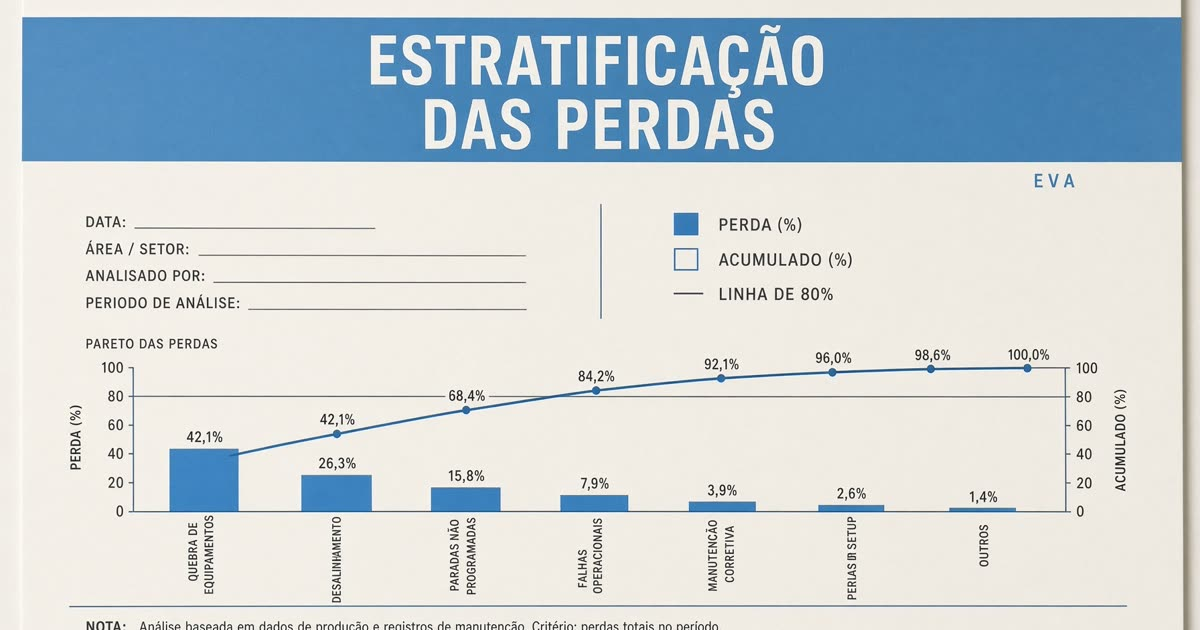
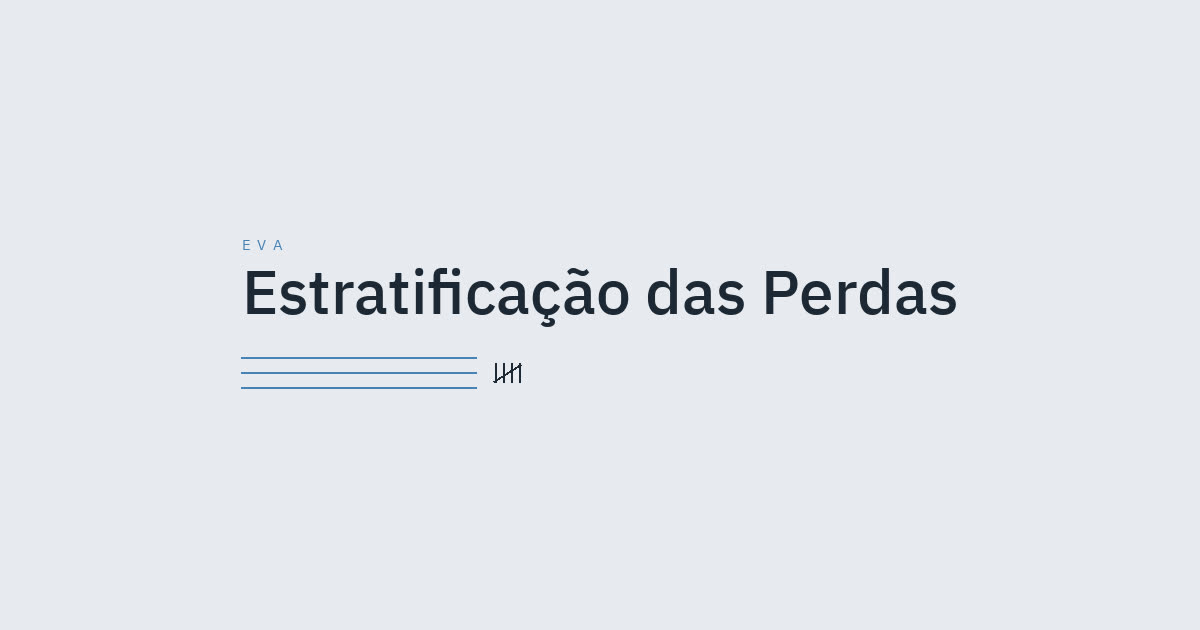
Mostra as perdas por lado, em pares, com o nome inteiro.

diff --git a/src/components/estratificacao.tsx b/src/components/estratificacao.tsx
@@ -8,7 +8,6 @@ import {
   Eye,
   EyeOff,
   ImageDown,
-  Maximize2,
   Minus,
   Plus,
   X,
@@ -24,7 +23,6 @@ import {
   describeMatrix,
   emptyConfig,
   fichaLines,
-  fichaTotal,
   formatDateBR,
   GRID_MACHINES,
   gridTargets,
@@ -1803,9 +1801,7 @@ function FichaSheet({
   onDelete?: (entries: Entry[]) => void;
 }) {
   const lines = fichaLines(state, machine);
-  const total = fichaTotal(lines);
   const filled = machineHasFicha(state, machine);
-  const [wide, setWide] = useState(false);
   const [open, setOpen] = useState(force);
   const [askDelete, setAskDelete] = useState(false);
   const mine = shiftEntries(state, machine);
@@ -1832,7 +1828,6 @@ function FichaSheet({
         <div className="flex items-end justify-between gap-3">
           <h2 className="font-display text-4xl leading-none">Máquina {machine}</h2>
           <span className="flex items-center gap-2">
-            <span className="font-display text-3xl leading-none tabular-nums">{total}</span>
             <ChevronDown className={cx("size-6 transition-transform", open && "rotate-180")} />
           </span>
         </div>
@@ -1845,14 +1840,6 @@ function FichaSheet({
       {open ? (
         <>
           <div className="grid gap-2 px-3 pt-3">
-            <button
-              type="button"
-              onClick={() => void openLandscape(setWide)}
-              className="flex min-h-11 w-full items-center justify-center gap-2 rounded-tile bg-accent-soft font-semibold text-accent"
-            >
-              <Maximize2 className="size-5" />
-              Ver em paisagem
-            </button>
             {onDelete && mine.length > 0 ? (
               askDelete ? (
                 <div className="flex items-center gap-2 rounded-tile bg-surface-2 px-3 py-2">
@@ -1888,26 +1875,17 @@ function FichaSheet({
               )
             ) : null}
           </div>
-          <p className="px-3 py-2 text-sm text-muted">
-            Desça a tabela: os problemas ficam fixos. Para o lado, o restante das colunas.
-          </p>
-          <div className="max-h-[65dvh] overflow-auto">
-            <FichaTable lines={lines} />
-          </div>
+          <p className="px-3 pt-3 text-sm text-muted">Uma sola no lado fecha 1 par. Esquerda e direita não se somam.</p>
+          <ApontamentosLista lines={lines} />
         </>
-      ) : null}
-      {wide ? (
-        <LandscapeSheet
-          machine={machine}
-          date={formatDateBR(state.date)}
-          turno={TURNO_LABEL[state.turno]}
-          total={total}
-          lines={lines}
-          onClose={() => setWide(false)}
-        />
       ) : null}
     </section>
   );
+}
+
+function pares(solas: number): number {
+  if (solas <= 0) return 0;
+  return Math.ceil(solas / 2);
 }
 
 function TopProblems({ lines }: { lines: FichaLine[] }) {
@@ -1916,24 +1894,90 @@ function TopProblems({ lines }: { lines: FichaLine[] }) {
   return (
     <ol className="mt-3 space-y-1">
       {leaders.map((item, index) => (
-        <li key={item.name} className="flex items-center gap-2 rounded-lg bg-white/15 px-2 py-1">
+        <li key={item.name} className="flex items-start gap-2 rounded-lg bg-white/15 px-2 py-1.5">
           <span className="w-5 shrink-0 font-display text-xl leading-none">{index + 1}</span>
-          <span className="min-w-0 flex-1 truncate text-sm font-semibold">{item.name}</span>
-          <span className="shrink-0 font-display text-2xl leading-none tabular-nums">{item.count}</span>
+          <span className="min-w-0 flex-1 text-sm font-semibold leading-snug">{item.name}</span>
+          <span className="shrink-0 text-right text-xs font-semibold leading-snug">
+            {item.solas} {item.solas === 1 ? "sola" : "solas"}
+          </span>
         </li>
       ))}
     </ol>
   );
 }
 
-function topProblems(lines: FichaLine[]): { name: string; count: number }[] {
-  const ranked = PROBLEMS.map((problem, index) => ({
-    name: problem.short,
-    count: lines.reduce((sum, line) => sum + (line.counts[index] ?? 0), 0),
-  })).sort((a, b) => b.count - a.count);
-  const acima = ranked.filter((item) => item.count > 3);
-  const lista = acima.length > 0 ? acima : ranked.filter((item) => item.count >= 2);
+function topProblems(lines: FichaLine[]): { name: string; solas: number; pares: number }[] {
+  const ranked = PROBLEMS.map((problem, index) => {
+    const solas = lines.reduce((sum, line) => sum + (line.counts[index] ?? 0), 0);
+    const emPares = lines.reduce((sum, line) => sum + pares(line.counts[index] ?? 0), 0);
+    return { name: problem.name, solas, pares: emPares };
+  }).sort((a, b) => b.solas - a.solas);
+  const acima = ranked.filter((item) => item.solas > 3);
+  const lista = acima.length > 0 ? acima : ranked.filter((item) => item.solas >= 2);
   return lista.slice(0, 3);
+}
+
+function ApontamentosLista({ lines }: { lines: FichaLine[] }) {
+  const stations = STATIONS.flatMap((station) => {
+    const rows = SIDES.flatMap((side) => {
+      const line = lines.find((item) => item.station === station && item.side === side);
+      if (!line) return [];
+      const items = PROBLEMS.flatMap((problem, index) => {
+        const solas = line.counts[index] ?? 0;
+        if (solas <= 0) return [];
+        return [{ id: problem.id, name: problem.name, solas, pares: pares(solas) }];
+      });
+      if (items.length === 0) return [];
+      const solas = items.reduce((sum, item) => sum + item.solas, 0);
+      return [{ side, numero: line.numero, referencia: line.referencia, shared: line.shared, items, solas, pares: pares(solas) }];
+    });
+    if (rows.length === 0) return [];
+    return [{ station, rows }];
+  });
+
+  if (stations.length === 0) {
+    return <p className="px-3 py-4 text-sm text-muted">Nenhuma perda apontada nesta máquina.</p>;
+  }
+
+  return (
+    <div className="grid gap-2 px-3 py-3">
+      {stations.map((station) => (
+        <section key={station.station} className="rounded-tile border border-line bg-surface-2 p-3">
+          <h3 className="font-display text-2xl leading-none">Estação {pad2(station.station)}</h3>
+          {station.rows.map((row) => (
+            <div key={row.side} className="mt-3 border-t border-line pt-3">
+              <div className="flex items-start justify-between gap-3">
+                <p className="min-w-0 text-sm font-semibold leading-snug text-accent">
+                  {SIDE_LABEL[row.side]}
+                  {row.numero || row.referencia
+                    ? ` · Nº ${row.numero || "—"}${row.referencia ? ` · Ref. ${row.referencia}` : ""}`
+                    : ""}
+                </p>
+                <p className="shrink-0 text-right leading-none">
+                  <span className="block font-display text-2xl tabular-nums">
+                    {row.pares} {row.pares === 1 ? "par" : "pares"}
+                  </span>
+                  <span className="text-xs font-semibold text-muted">
+                    {row.solas} {row.solas === 1 ? "sola" : "solas"}
+                  </span>
+                </p>
+              </div>
+              <ul className="mt-1">
+                {row.items.map((item) => (
+                  <li key={item.id} className="border-b border-line py-2 text-sm font-semibold leading-snug last:border-b-0">
+                    {item.name}
+                    <span className="mt-0.5 block text-xs font-semibold text-muted">
+                      {item.solas} {item.solas === 1 ? "sola" : "solas"}
+                    </span>
+                  </li>
+                ))}
+              </ul>
+            </div>
+          ))}
+        </section>
+      ))}
+    </div>
+  );
 }
 
 function LandscapeSheet({
